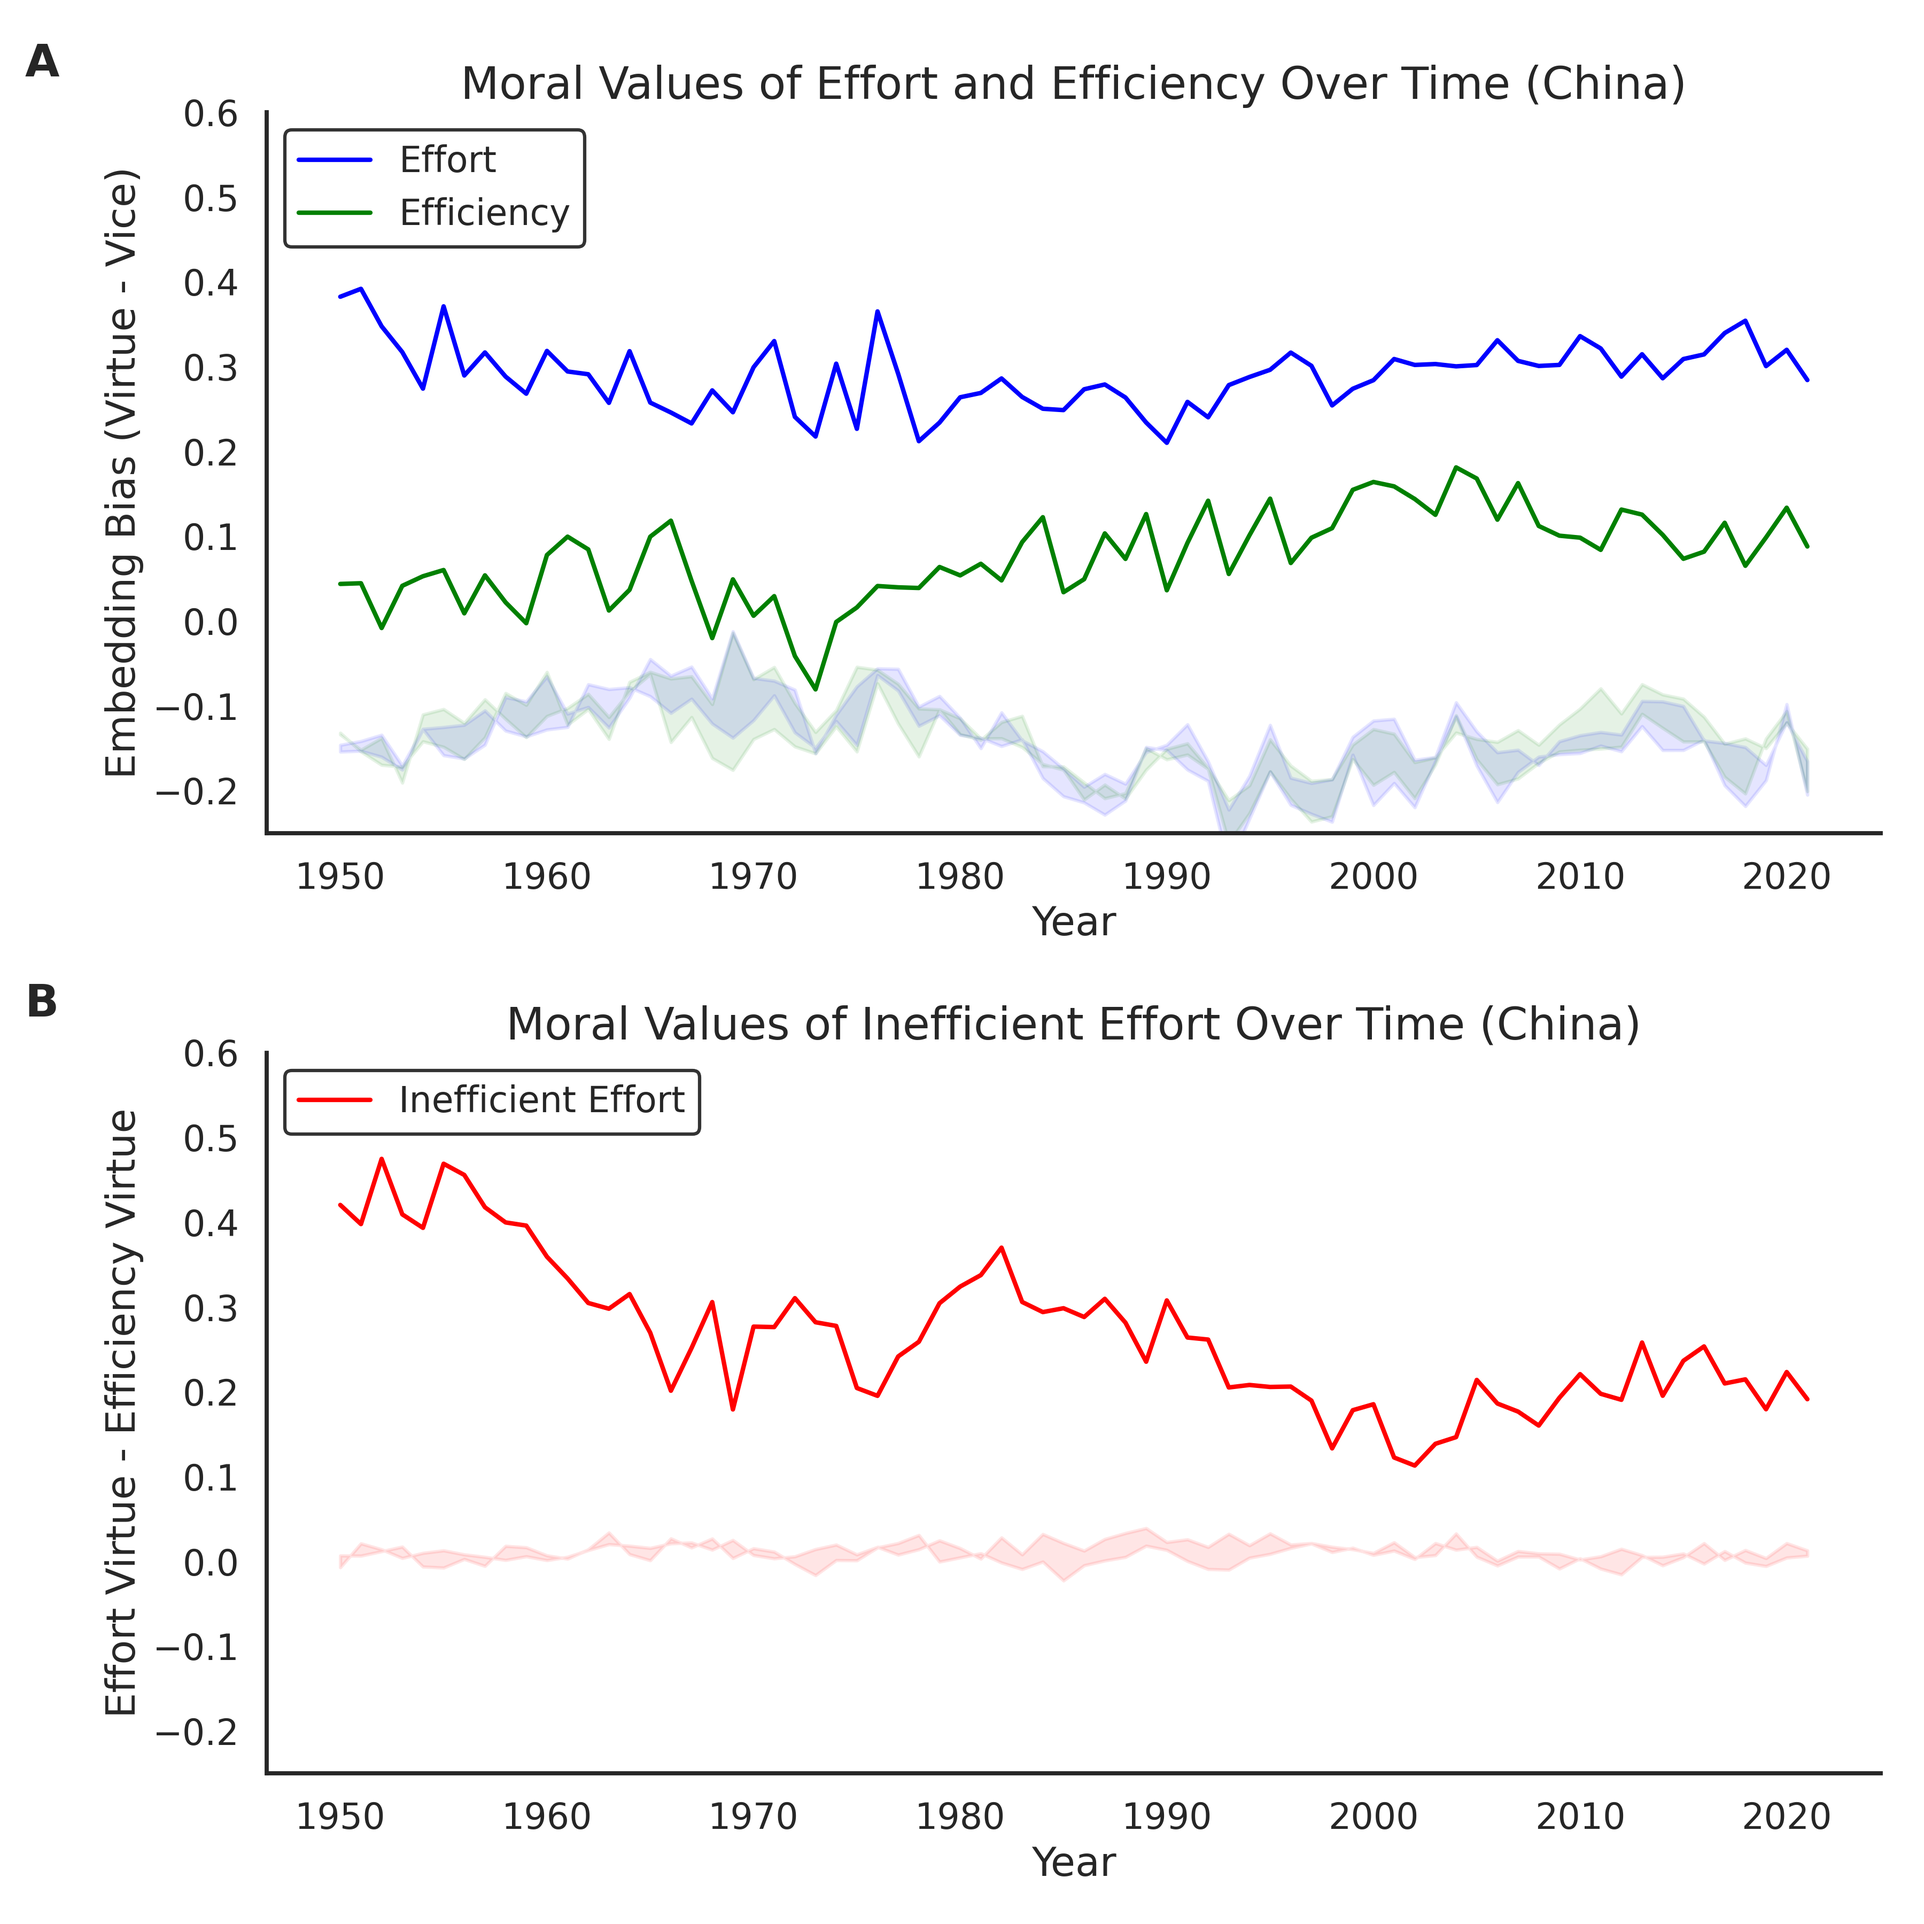
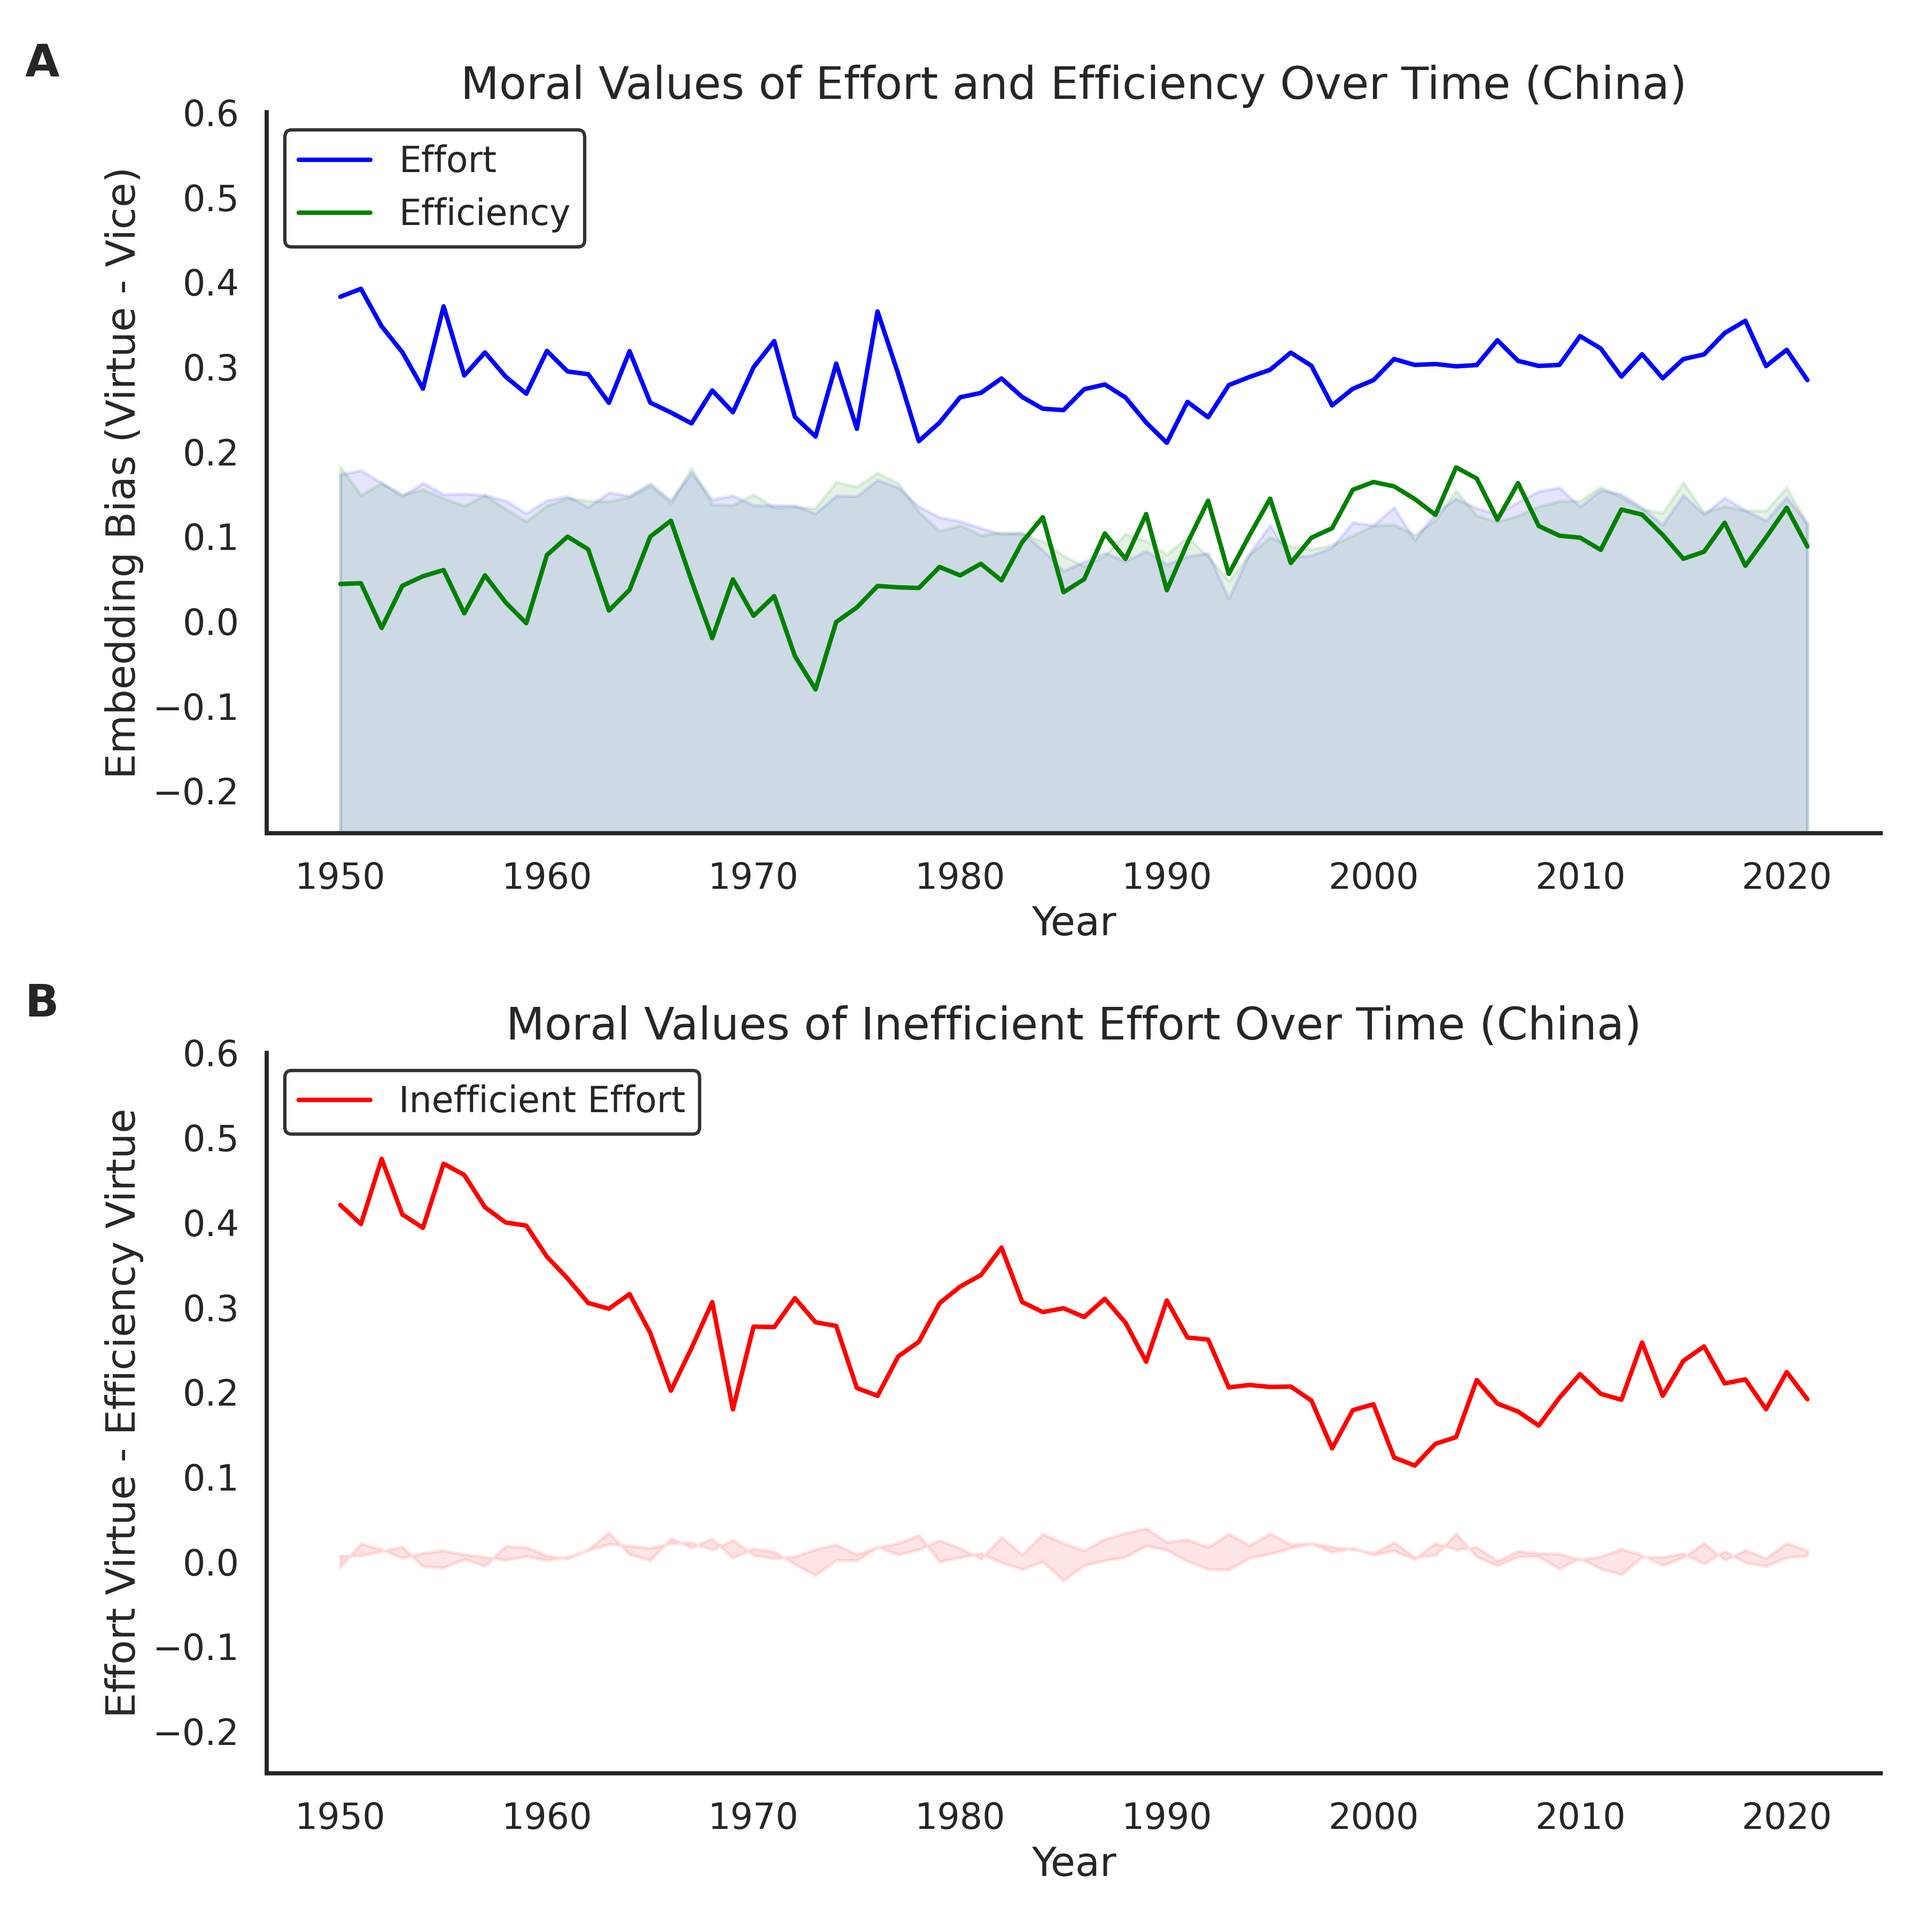
update ussr and null plotting

Changed region(s): [[0.1556, 0.2489, 0.9644, 0.4356]]

diff --git a/1_code/main_plot.py b/1_code/main_plot.py
@@ -10,7 +10,6 @@ nullresults_folder_path =os.path.join(os.path.dirname(script_dir),'2_pipeline/tm
 
 null_folder_path = os.path.join(tmp_folder_path, 'null_association')
 # nullresults_folder_path = os.path.join(os.path.dirname(script_dir),'3_output', 'results','null_association')
-nullresults_folder_path =os.path.join(os.path.dirname(script_dir),'2_pipeline/tmp')
 nullplot_folder_path = os.path.join(os.path.dirname(script_dir),'3_output', 'plot','null_association')
 if not os.path.exists(null_folder_path):
     os.makedirs(null_folder_path)
@@ -27,25 +26,24 @@ def load_null_association(savename):
 # US Congress
 us_null_filepath = os.path.join(nullresults_folder_path, 'us_trueword10000_all.csv"')
 # if os.path.exists(us_null_filepath):
-# dfusnull_final = pd.read_csv('/home/local/PSYCH-ADS/xuqian_chen/Github/effort-osf/2_pipeline/tmp/us_trueword10000_all.csv')
+dfusnull_final = pd.read_csv(os.path.join(nullresults_folder_path,'us_trueword10000_all.csv'))
 # else:
 #     # Models
 #     # model_folder_path = os.path.join(data_folder_path, 'model')
-model_folder_path = '/home/local/PSYCH-ADS/xuqian_chen/YES_lab/Amber/nlp/Congress/model' #change to your own path
-models = load_word2vec_models(model_folder_path)
-
-null_lists = generate_random_words(foundations, 10000, models, tmp_folder_path, 'foundaiton_word10000',False)
-dfusnull_final = calculate_null_association(models, targets, foundations, null_lists,'us_trueword10000')
+# model_folder_path = '/home/local/PSYCH-ADS/xuqian_chen/YES_lab/Amber/nlp/Congress/model' #change to your own path
+# models = load_word2vec_models(model_folder_path)
+# null_lists = generate_random_words(foundations, 10000, models, tmp_folder_path, 'foundaiton_word10000',False)
+# dfusnull_final = calculate_null_association(models, targets, foundations, null_lists,'us_trueword10000')
 
 # China's People's Daily
 chi_null_filepath = os.path.join(nullresults_folder_path, 'null10000_chi_all.csv')
 # if os.path.exists(chi_null_filepath):
-# dfchinull_final = pd.read_csv(chi_null_filepath)
+dfchinull_final = pd.read_csv(chi_null_filepath)
 # else:
-model_chi_folder_path = '/home/local/PSYCH-ADS/xuqian_chen/Github/agebias-chi/0_data/model' #change to your own path
-models_chi = load_word2vec_models(model_chi_folder_path)
-null_lists_chi = generate_random_words(foundations_chi, 10000, models_chi, tmp_folder_path, 'foundaiton_chi_word10000',False)
-dfchinanull_final = calculate_null_association(models_chi, targets_chi, foundations_chi, null_lists_chi,'china_trueword10000')
+# model_chi_folder_path = '/home/local/PSYCH-ADS/xuqian_chen/Github/agebias-chi/0_data/model' #change to your own path
+# models_chi = load_word2vec_models(model_chi_folder_path)
+# null_lists_chi = generate_random_words(foundations_chi, 10000, models_chi, tmp_folder_path, 'foundaiton_chi_word10000',False)
+# dfchinanull_final = calculate_null_association(models_chi, targets_chi, foundations_chi, null_lists_chi,'china_trueword10000')
 dfus = pd.read_csv(os.path.join(pipeline_folder_path,'foundations_us.csv'))
 dfus['efficiency_diff'] = dfus['efficiency_virtue'] - dfus['efficiency_vice']
 dfus['effort_diff'] = dfus['effort_virtue'] - dfus['effort_vice']
